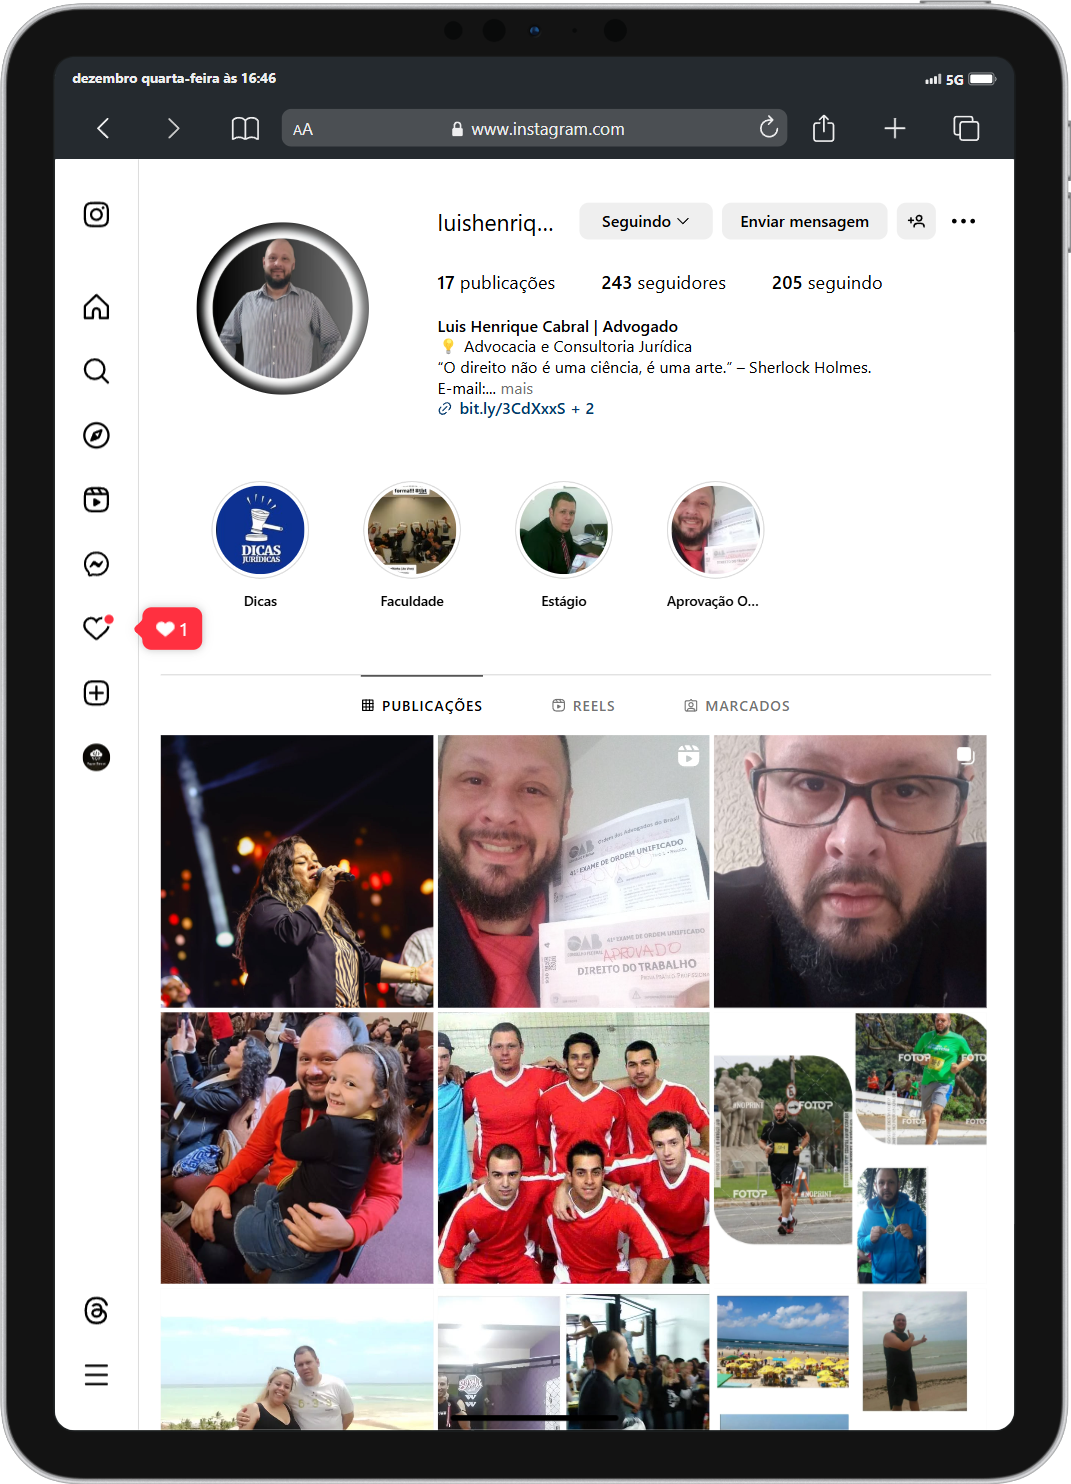
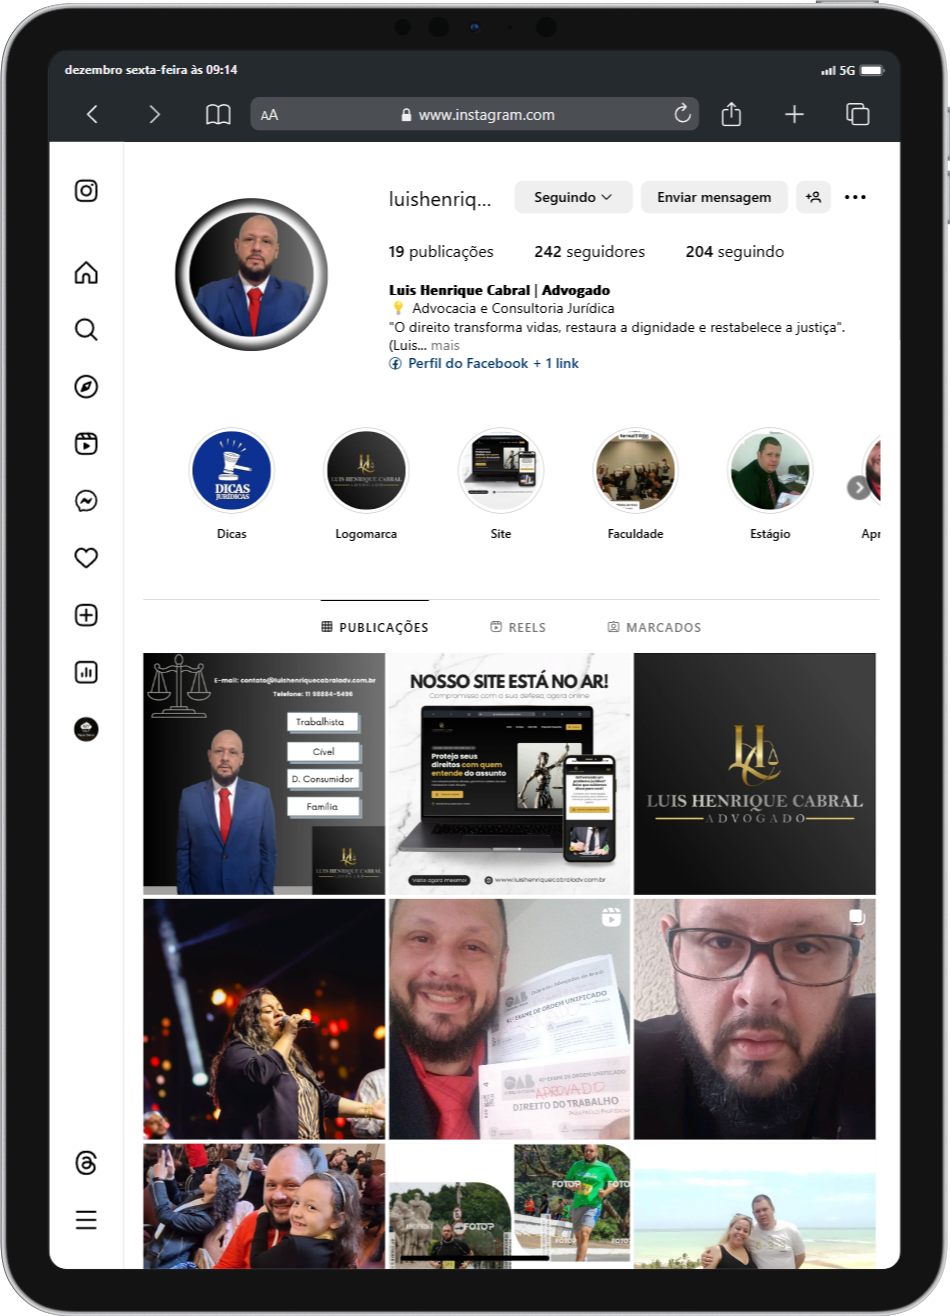
feat: Atualiza fotos de about e do instagram

diff --git a/src/content/content.jsx b/src/content/content.jsx
@@ -6,7 +6,7 @@ import imgFeatures from "../assets/imgs/features/imgServices.jpg";
 import imgDivisor from "../assets/imgs/features/imgDivisor.jpg";
 
 import aboutImg1 from "../assets/imgs/about/aboutImg.jpg";
-import aboutSocialImg from "../assets/imgs/about/aboutSocial.jpg";
+import aboutSocialImg from "../assets/imgs/about/aboutSocial.png";
 
 import imgSteps from "../assets/imgs/steps/imgSteps.jpg";
 

diff --git a/src/pages/Index.jsx b/src/pages/Index.jsx
@@ -29,8 +29,8 @@ export default function Index() {
       <Features modal={false} />
       {/* <FeaturesResumed /> */}
       <About modal={true} />
-      {/* <AboutInstagram /> */}
-      <AboutInstagramBgImg />
+      <AboutInstagram />
+      {/* <AboutInstagramBgImg /> */}
       <Cta />
       <Steps />
       <Faq />
